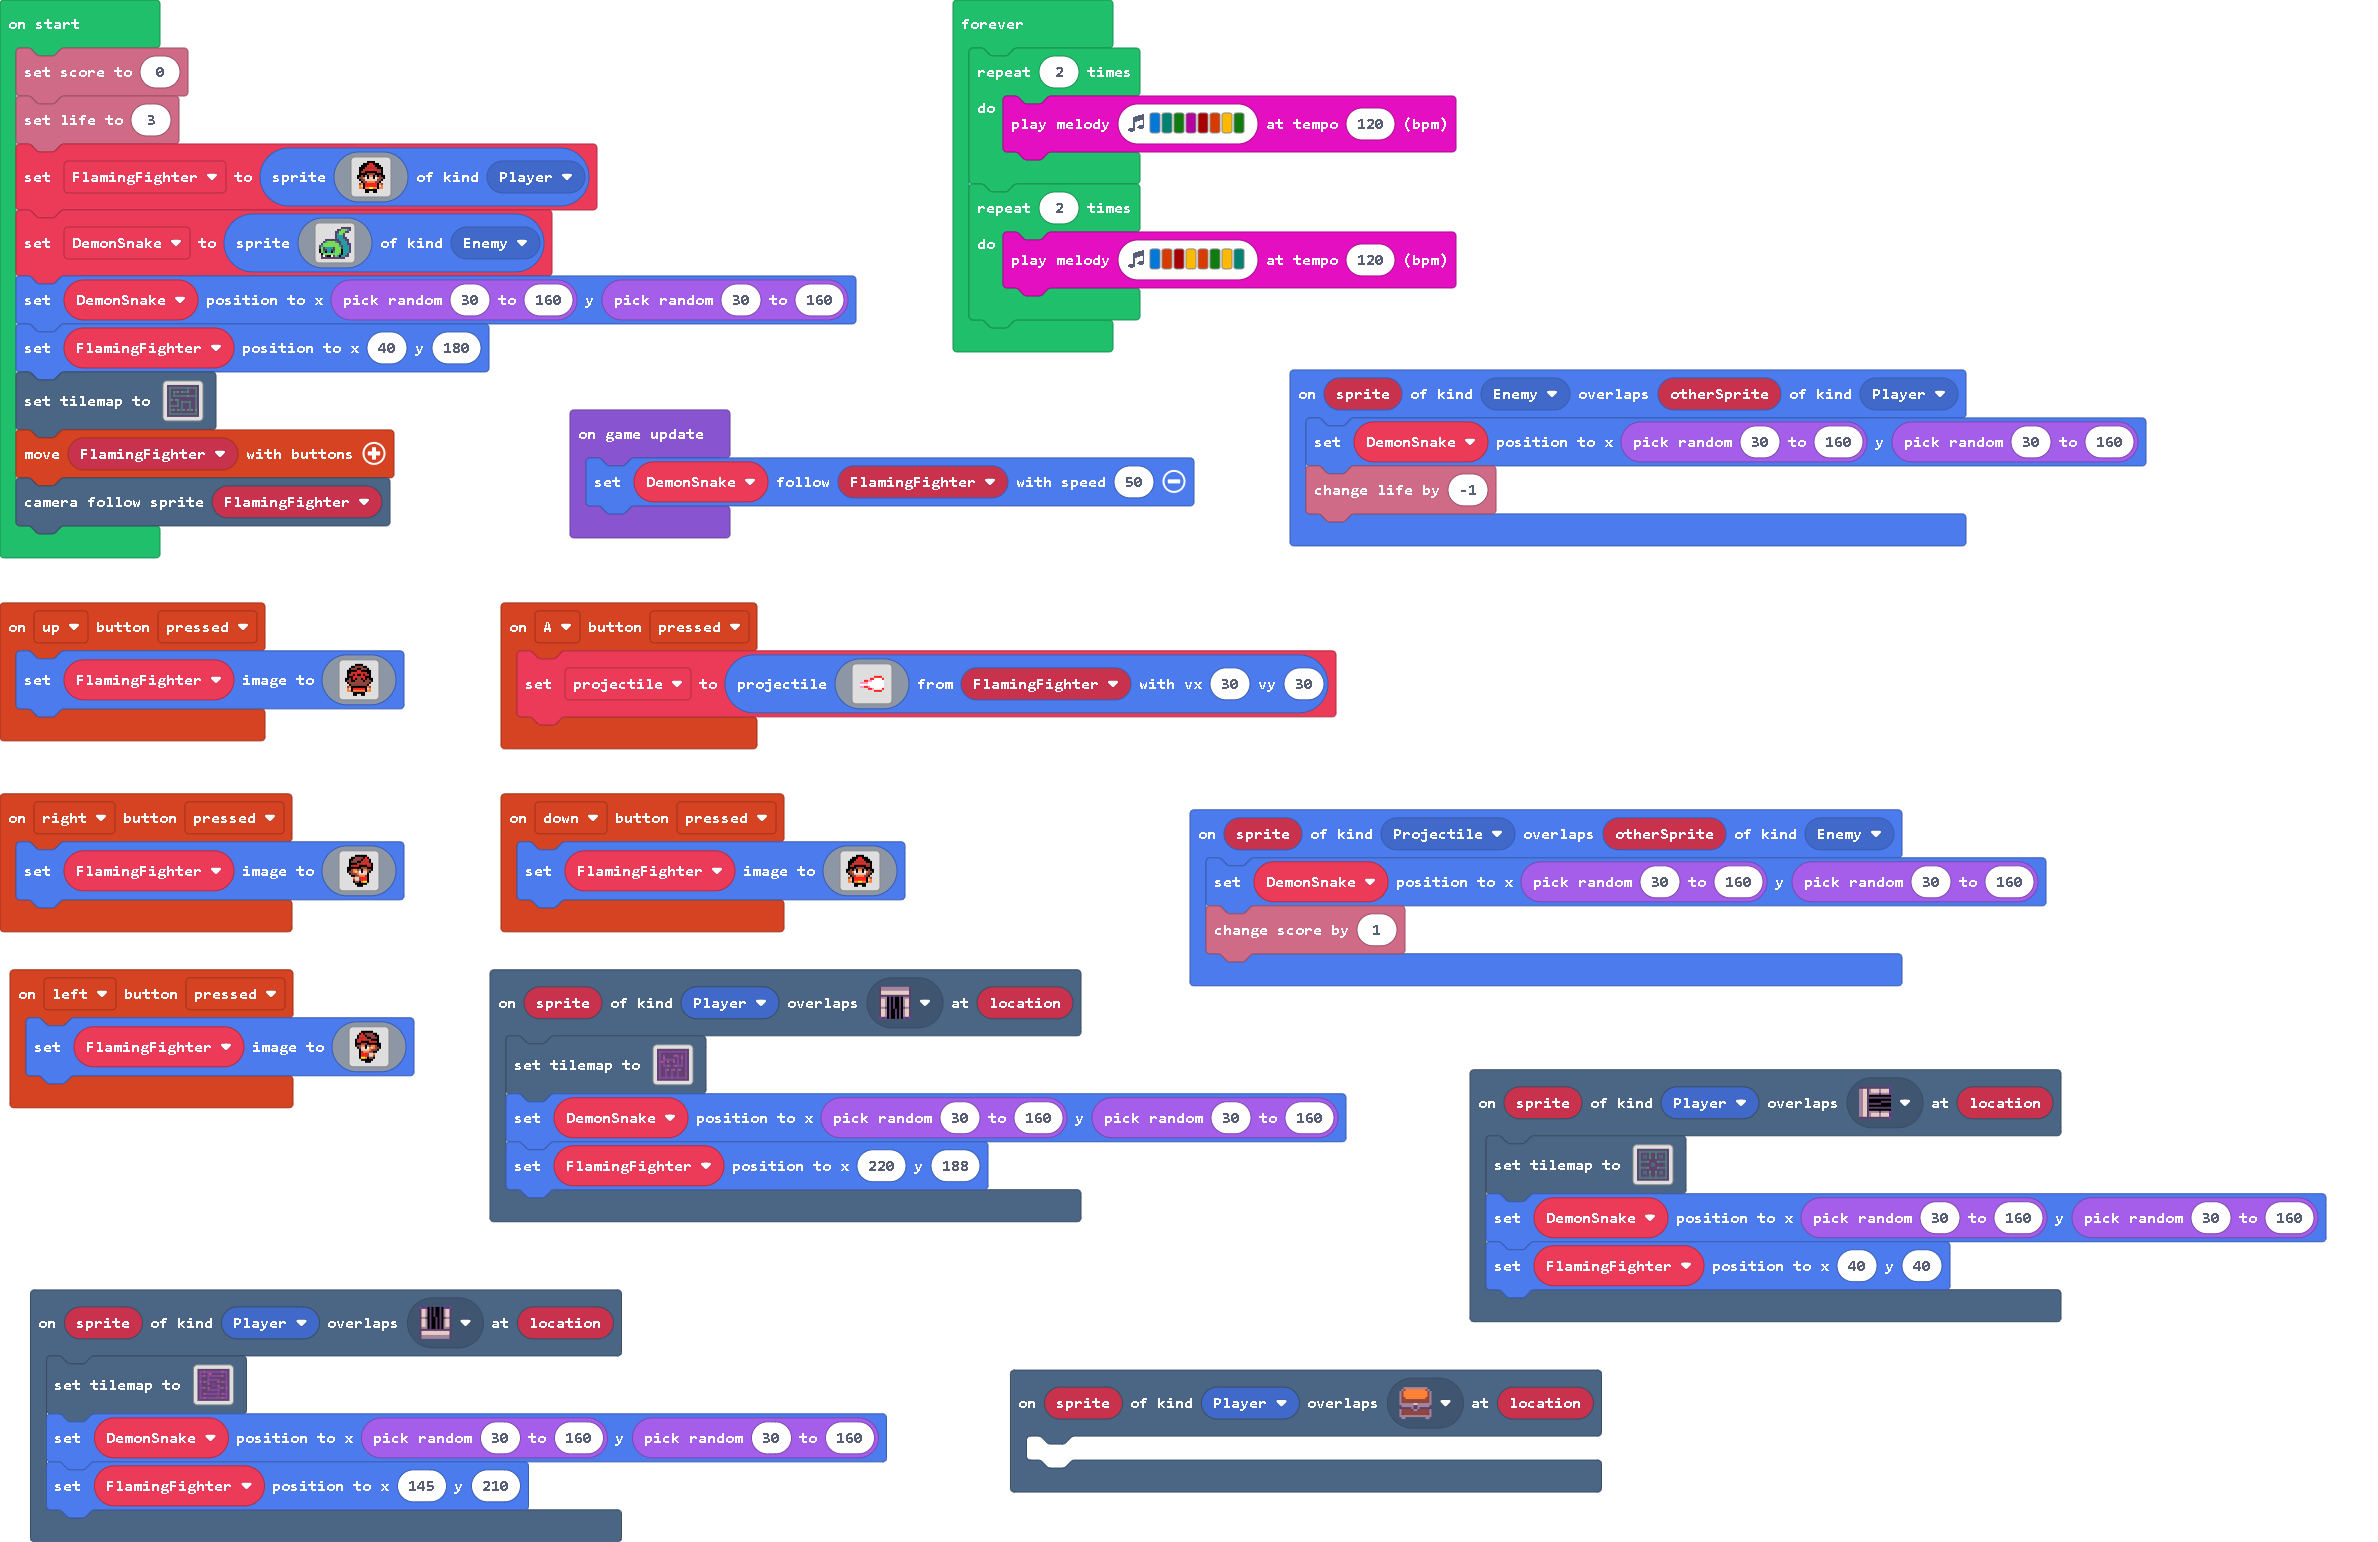
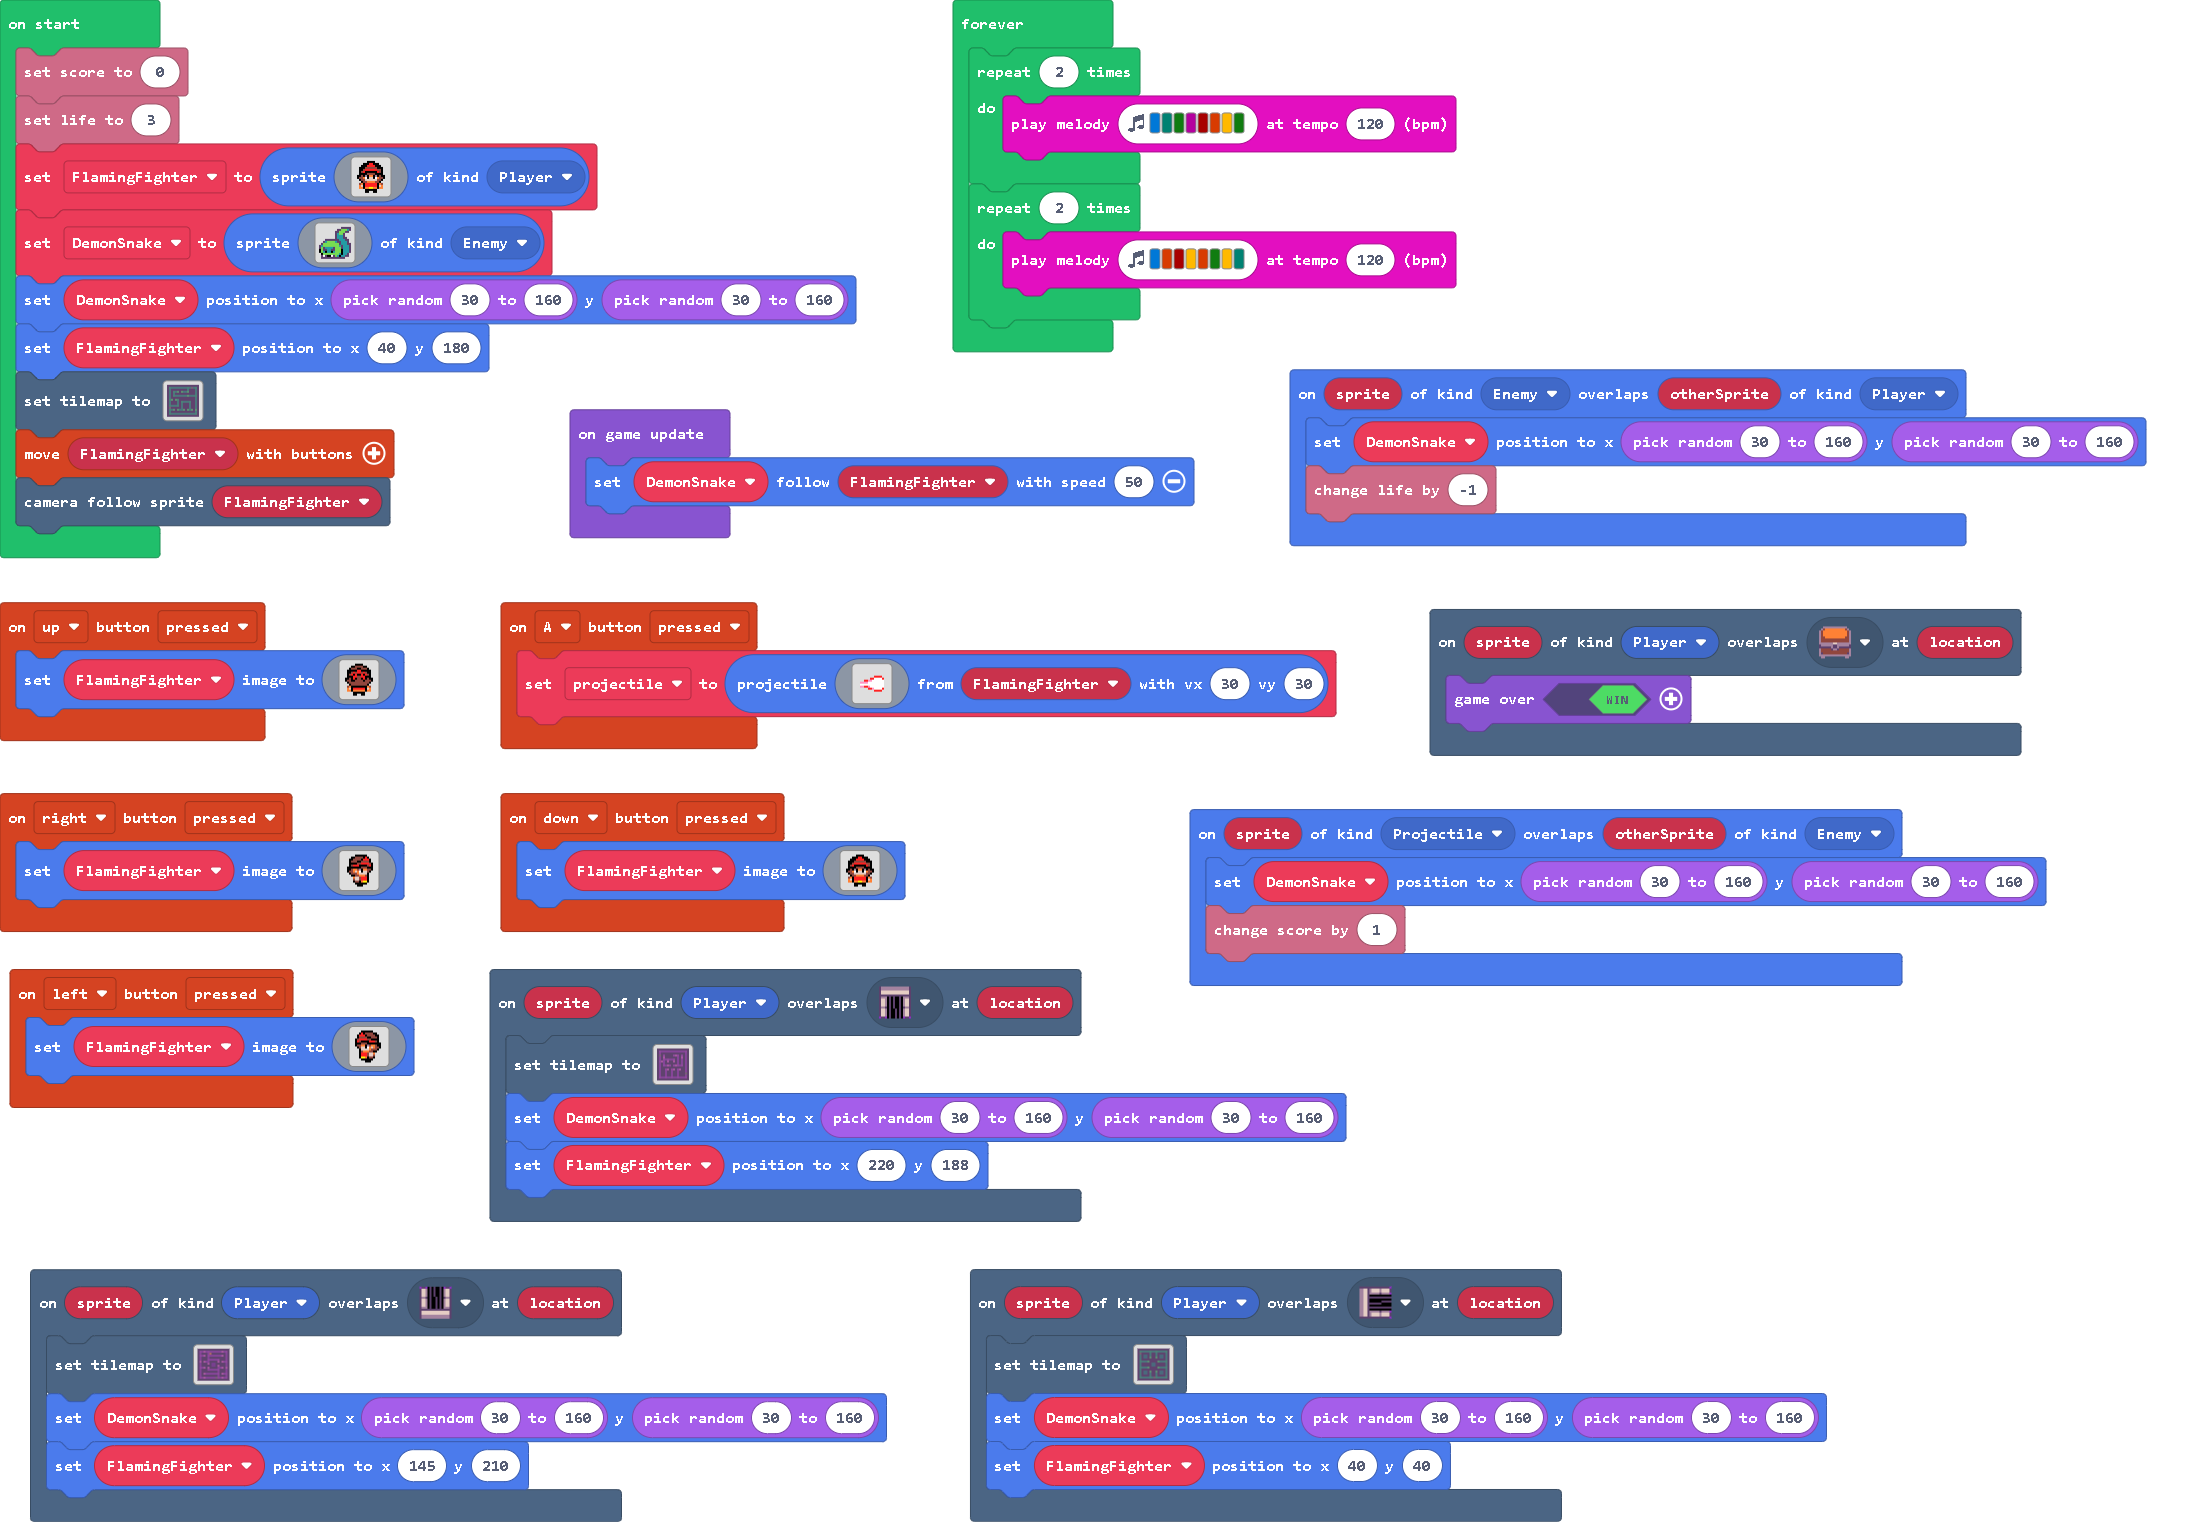
Update main.blocks, main.ts

diff --git a/main.ts b/main.ts
@@ -13,7 +13,7 @@ scene.onOverlapTile(SpriteKind.Player, sprites.dungeon.doorClosedNorth, function
     FlamingFighter.setPosition(220, 188)
 })
 scene.onOverlapTile(SpriteKind.Player, sprites.dungeon.chestClosed, function (sprite, location) {
-	
+    game.over(true)
 })
 controller.right.onEvent(ControllerButtonEvent.Pressed, function () {
     FlamingFighter.setImage(assets.image`Flaming Fighter - facing right`)
